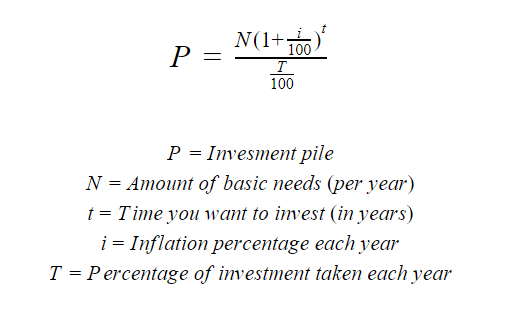
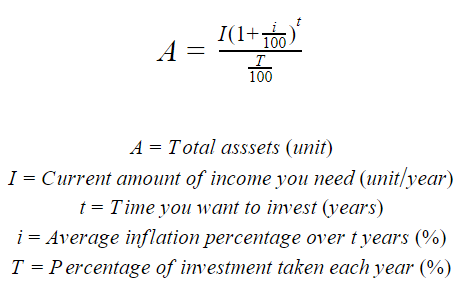
Complete investment post

Changed region(s): [[0.0, 0.4375, 1.0, 0.9688], [0.3333, 0.0625, 0.6667, 0.2812]]

diff --git a/_posts/2018-11-23-early-retirement-and-investment.md b/_posts/2018-11-23-early-retirement-and-investment.md
@@ -1,0 +1,92 @@
+---
+title: Early Retirement and Investment
+---
+
+## Early Notes
+
+In this post I gonna talk about the possibility of some strategy that you can try, but I am not asssuring that the strategy is going to work. This post may be changing overtime, along with the journey I going to experience and knowledge I gather. This post also more specific to people who live in Indonesia. I know too that by talking about money, I rise anxiety which lead to stingy attitude and insecurity, so please don't be.
+
+## Background
+
+Maybe a bit too early to talk about this and a bit controversial to talk about money, because no one wants to talk about it. Since almost everybody bad about it, including me too. Financial independence is when your assets sufficient enough to produce income for basic needs and more importantly, freedom.
+
+Why retire so early? We do want to have some financial safety net right? so that we would not depend and not taking advantage of friends and relatives, not depending on our boss, and lastly so we can give more to society. Retiring is also mean you can choose whatever you want to do in life, not steered by money.
+
+## Strategy
+
+The strategy is by creating some large pile of assets that will give you enough cash each year to live with basic needs. That investment
+is also going to grow overtime that equal to inflation that a country your living has.
+
+### 1. Pile the Stack
+
+Invest as much as possible with a percentage that will not ruin your own basic needs. To calculate the pile of investment you, I made up a formula to calculate the total assets.
+
+![total-assets-formula](https://eufat.github.io/images/investment-1.png)
+
+For example, in Indonesia where the [2017 inflation rate at 3.8%](https://data.worldbank.org/indicator/FP.CPI.TOTL.ZG?end=2017&locations=ID&start=1960&view=chart) and a each year you need 60 million IDR with 4% taken each year, then this is the pile you need.
+
+![investment-calculation-1](https://eufat.github.io/images/investment-2.png)
+
+To calculate the adjusted income of investment you will receive is
+
+![investment-calculation-2](https://eufat.github.io/images/investment-3.png)
+
+After we achieve that number we can say that ourselves is wealthy is good for retirement. With that number, it means that you also need an investment that grows as much as percentage of investment taken plus the inflation percentage (4%+3.8%) that equals to 7.8%. 
+
+I think when we talk about investment there is a broad choiches that we can choose (P2P lending, real estate, deposits etc) but consider to choose the one with less hassle, reliable, affordable to start, which is [mutual funds](https://en.wikipedia.org/wiki/Mutual_fund). This is some points that I have researched along the way.
+
+1. Use mutual funds platform. Consider [tanamduit](https://www.tanamduit.com), [bareksa](https://www.bareksa.com/) or [SPOR](https://spor.sucorinvestam.com/id/)) to easily do a subscription or redemption on your assets.
+2. Pick only the one licensed to financial services authority (It is called [OJK](https://www.ojk.go.id/Default.aspx) in Indonesia).
+3. For long term investment pick stocks or mixed mutual funds. Consider [Sucorinvest AM](http://sucorinvestam.com/) and [Sinarmas AM](http://www.sinarmas-am.co.id/) since they have great profit and risk ratio.
+4. Use mutual fund simulation and investment calculator to predict your future in a given timespan. Consider to use [this](https://www.bareksa.com/id/mutualfund/simulation) to simulate certain product and use [this] calculator to calculate investment.
+5. After you buy the product, forget it. Do not watch too closely and only [rebalance](https://www.investopedia.com/terms/r/rebalancing.asp) every year (There is a product called [Ajaib](https://www.ajaib.co.id/) is coming, it do the rebalancing automatically or as known as Robo-Investing like [Wealthfront](https://www.wealthfront.com/) in US).
+6. Choose sharia products if you believe in [the law](https://simple.wikipedia.org/wiki/Sharia).
+
+### 2. Consume Less and Produce More
+
+In the world where we rushing to consume more not giving more, it also creates a hippo trouble in our life. You must know what is a border on essential needs. Our desire usually lead to quickest solution, not the wisest one. Consider to avoid that gospel of blinky lifestyle that will burden you and your environment in long term. If you want some real change, try to ditch social media to avoid the gospel and interact with real people in real life.
+
+While producing more mean is instead of using software for example, try to create one. Instead of listening to music, try to compose one. Instead of hiring a handyman to build an sofa, try to build by yourself. Instead to learn from lectures, try to create your own curriculum. There's a lot of this world that we can do if we has effort to do so.
+
+![american-psycho](https://eufat.github.io/images/american-psycho)
+*A scene from American Psycho when Christian Bale as Bateman murder his associates just because a single business card*
+
+I've never been like filthy rich consumer, but I think movies like [Scarface](https://www.imdb.com/title/tt0086250/), [American Psycho](https://www.imdb.com/title/tt0144084/), [The Family Man](https://www.imdb.com/title/tt0218967/) and [Wall Street](https://www.imdb.com/title/tt0094291/) could teach you something.
+
+### 3. Pick Side Projects
+
+You can create your own project or pick from contest. By doing a project not only you will receive money but also you can gain your overall skill and widen your perspective about something you care about. Also same as in point one, I do have some point to note when picking projects
+
+1. Avoid project that take a long term maintenance.
+2. Write and sign MoU (Memorandum of Understanding) before work on the project, even it is from your closest relative.
+3. In some other time try to pick a project with different technique.
+4. Avoid project that has a relatively small impact (this based on your scale of experience).
+5. Compare the compensation with the other project that has similiar specification.
+
+### 4. Work in Foreign Country
+
+If you good in foreign language, it's not wrong to start a working in foreign country for a while, or the other alternative is doing a remote work. Even in that foreign country got a significant jump in life expenses, usually the amount of money that you can save is also considerably higher than your current living country. For example in [this chart](https://data.worldbank.org/indicator/NY.GDP.PCAP.CD?locations=ID-US-SG-AU-NZ-SE-NO-MY), we can compare the amount of average salary by putting the GDP per capita data.
+
+![gdp-per-capita-comparison](https://eufat.github.io/images/gdp-comparison.png)
+*Gross Domestic Product per capita comparison across countries*
+
+You could also consider to watch [this talk](https://www.youtube.com/watch?v=A9UmdY0E8hU) about Nordic social democracies countries like Norway and Sweden that have several advantages over other countries to build wealth.
+
+### 5. Build Your Own Company
+
+This is the fastest but riskiest way to create wealth, so if you're young has an innovative idea that fit with the market you can start a company. By doing this way, don't forget to manage the share of the equity between you partners.
+
+## Ending Notes
+It is you that own yourself and you that give a direction to your own self, this is just the possibilities of way to create wealth and maintain it through investments. For me, I do have some plan for early retirement maybe in 30s to 40s, I believe that I will get there someday. Even if I too in love to work instead and want to continue working, I believe financial independence is a great assurance. 
+
+This is some other references I think that great to continue to digging more about this topic.
+
+1. Rich Dad Poor Dad by Robert Kiyosaki
+2. The Simple Path to Wealth by JL Collins
+3. Principles: Life and Work by Ray Dalio
+4. [Khan Academy Personal Finance](https://www.khanacademy.org/college-careers-more/personal-finance)
+5. [Khan Academy Finance and Capital Markets](https://www.khanacademy.org/economics-finance-domain/core-finance)
+6. [Prita Ghozie Twitter Feed](https://twitter.com/pritaghozie)
+7. [Prita Ghozie Personal Blog](https://pritaghozie.com/)
+8. [Mr Money Moustache Talk](https://www.youtube.com/watch?v=FEBe7ZEfORc)
+9. [Dan Sawatzky Talk](https://www.youtube.com/watch?v=boYq2QwNbJE)
